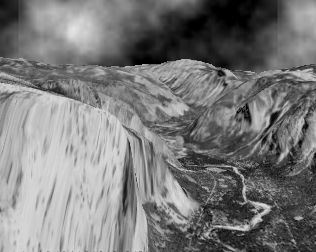
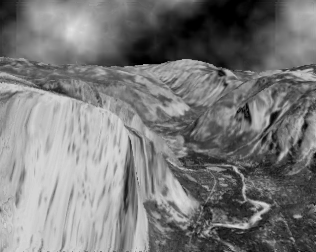
section 2, 1-3

diff --git a/HW2/lucas_kanade.py b/HW2/lucas_kanade.py
@@ -281,10 +281,35 @@ def lucas_kanade_optical_flow(I1: np.ndarray,
     v = np.zeros(pyarmid_I2[-1].shape)
     """INSERT YOUR CODE HERE.
        Replace u and v with their true value."""
-    u = np.zeros(I1.shape)
-    v = np.zeros(I1.shape)
-    return u, v
+    # (4) For every level in the image pyramid, starting from the smallest image (deepest level)
+    for level in range(num_levels, -1, -1):
+        level_I1 = pyramid_I1[level]
+        level_I2 = pyarmid_I2[level]
+        
+        # Scale and resize u and v to match the current pyramid level shape
+        h_curr, w_curr = level_I1.shape
+        if u.shape != (h_curr, w_curr):
+            u_resized = cv2.resize(u, (w_curr, h_curr))
+            v_resized = cv2.resize(v, (w_curr, h_curr))
+            
+            # Update flow fields scaled by the ratio of current vs previous level dimensions
+            u = u_resized * (w_curr / u.shape[1])
+            v = v_resized * (h_curr / v.shape[0])
+            
+        # (4.2) Repeat for max_iter iterations at each level
+        for _ in range(max_iter):
+            # (4.1) Warp I2 from that level according to the current u and v
+            I2_warp = warp_image(level_I2, u, v)
+            
+            # (4.2.1) Perform a Lucas Kanade Step with the I1 decimated image 
+            # and the current I2_warp to get the residual displacements
+            du, dv = lucas_kanade_step(level_I1, I2_warp, window_size)
+            
+            # Accumulate the updates into the running flow fields
+            u += du
+            v += dv
 
+    return u, v
 
 def lucas_kanade_video_stabilization(input_video_path: str,
                                      output_video_path: str,
